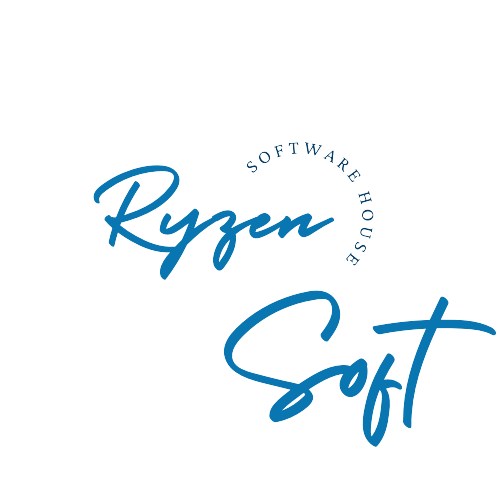
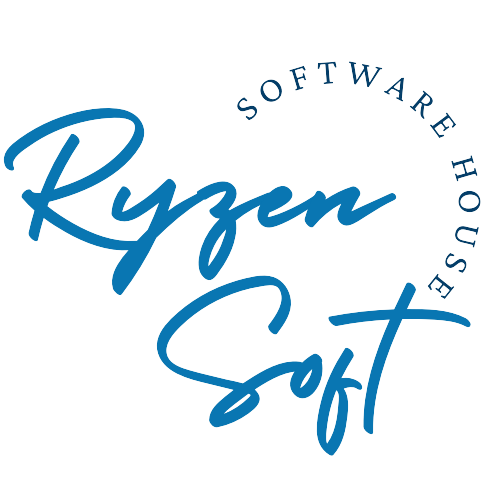
Change

diff --git a/index.html b/index.html
@@ -29,7 +29,7 @@
     
 
   <form method="POST" class="form-signin" action="/">
-    <img class="mb-4" src="images/img2.png" alt="" width="72" height="72">
+    <img class="mb-4" src="images/img.png" alt="" width="72" height="72">
     <h1 class="h3 mb-3 fw-normal">Please Sign Up</h1>
 
     <div class="form-floating">
